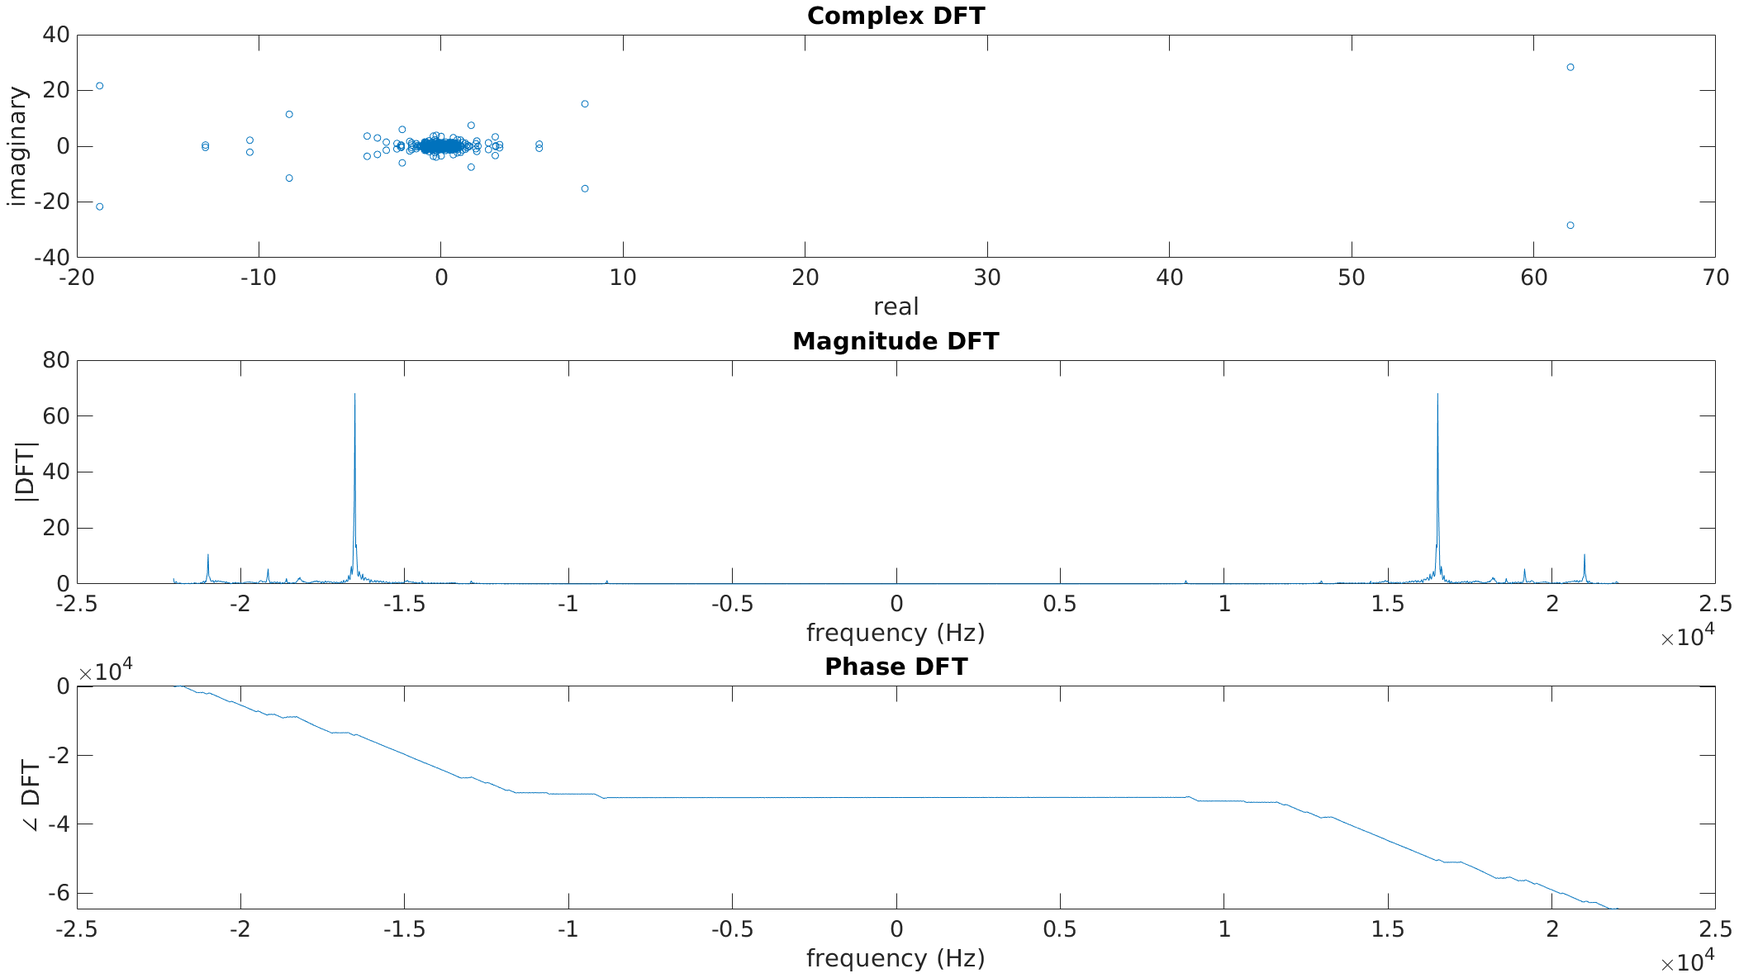
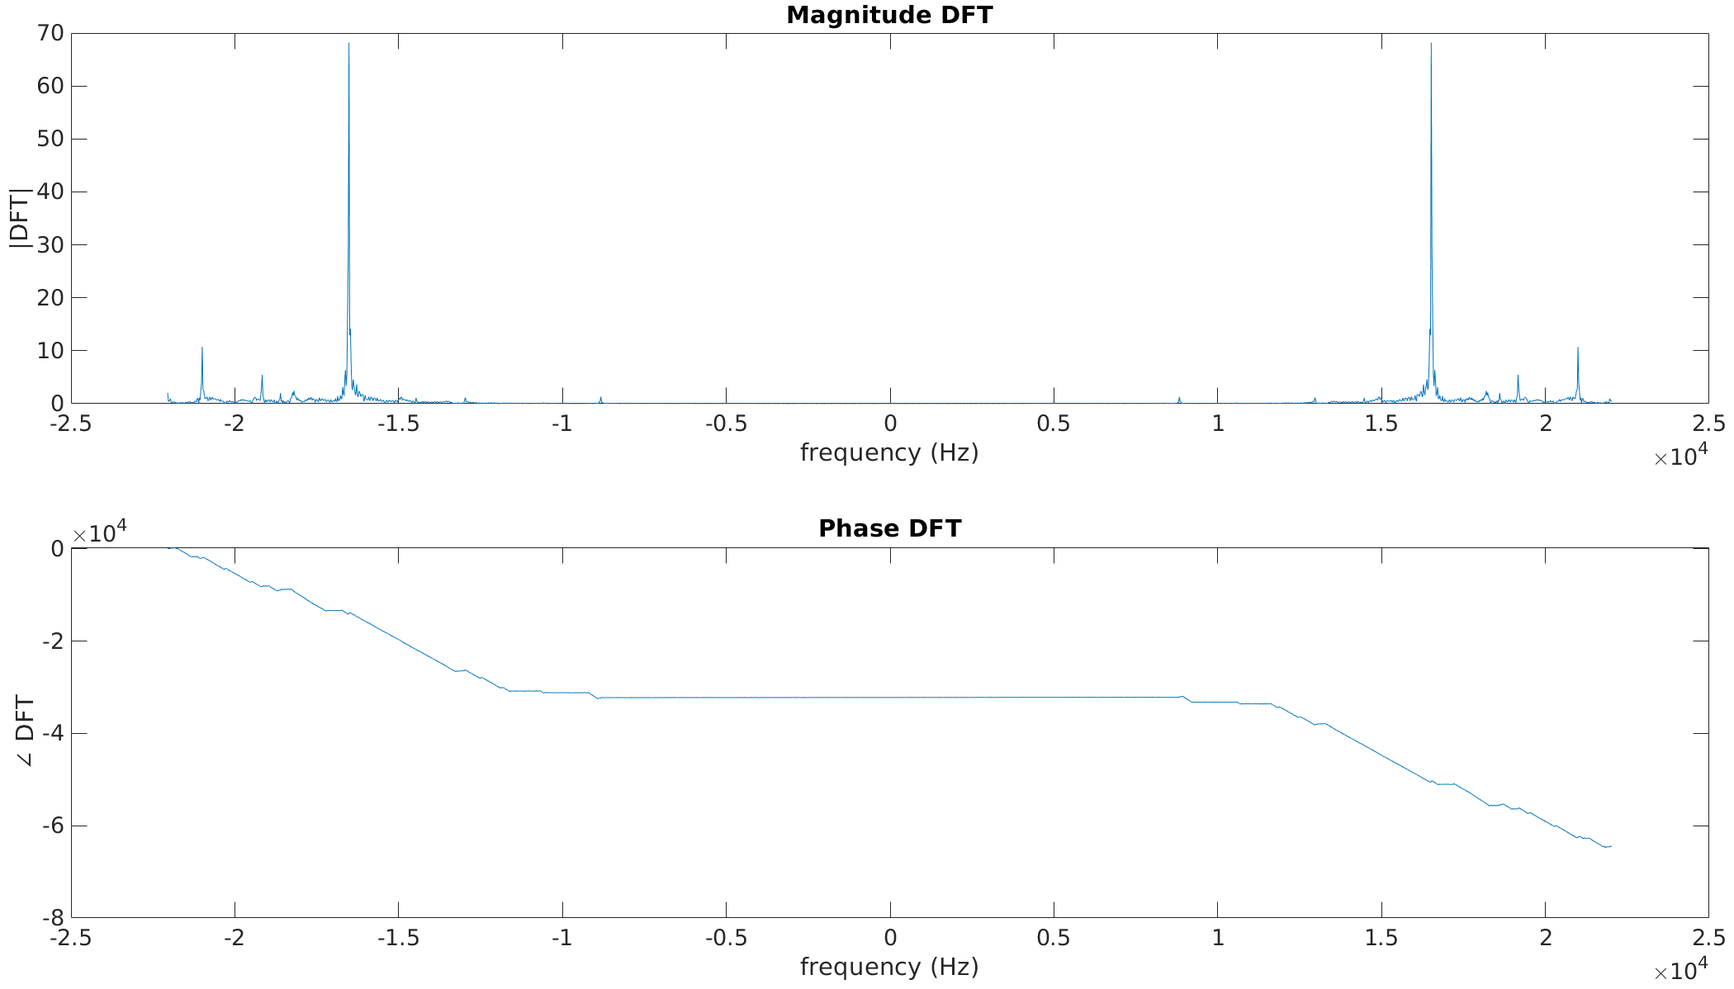
STFT section feeling good

diff --git a/latex/ch2_background.tex b/latex/ch2_background.tex
@@ -77,6 +77,8 @@ Throughout this section, the description of the Fourier transform of acoustic si
 	\label{fig:glockwaveform}
 \end{figure}
 
+The signal contains 262144 samples, and is sampled with a rate of 44100 Hz, meaning the total duration is $\sfrac{262144}{44100} \approx$ 5.94 seconds.
+
 \newpagefill
 
 \subsubsection{Frequency analysis and the Fourier transform}
@@ -119,13 +121,13 @@ In \textcite[Chapter~9]{discretebook} it is described that in its original formu
 	\label{fig:bigo}
 \end{figure}
 
-The number of points, or samples, of the DFT, determines the frequency resolution, also called $\mathit{df}$ or $\mathit{\Delta f}$, which is the frequency spacing between each point in the resulting spectrum (\cite{discretebook}). The frequency resolution of an $N$-point DFT is $\mathit{df} = \sfrac{F_{s}}{N}$, where $F_{s}$ is the sampling rate of the input signal. A longer DFT therefore has a finer frequency resolution, but it requires a longer input signal -- this is the heart of the conflict between time and frequency, which will be covered in section \ref{sec:jointtfa}. An illustration of the complex DFT spectrum along with its magnitude and phase spectra are shown in figure \ref{fig:glockdft}, using two different lengths of DFT to show the difference in the low and high frequency resolutions.
+The number of points, or samples, of the DFT, determines the frequency resolution, also called $\mathit{df}$ or $\mathit{\Delta f}$, which is the frequency spacing between each point in the resulting spectrum (\cite{discretebook}). The frequency resolution of an $N$-point DFT is $\mathit{df} = \sfrac{F_{s}}{N}$, where $F_{s}$ is the sampling rate of the input signal. An illustration of the magnitude and phase spectra of the DFT are shown in figure \ref{fig:glockdft}, using two different lengths of DFT to show the difference in the low and high frequency resolutions.
 
 \begin{figure}[ht]
 	\centering
 	\subfloat[2048-point DFT, $\mathit{df} = 21.533 Hz$]{\includegraphics[width=\textwidth]{./images-gspi/gspi_dft.png}}\\
 	\subfloat[262144-point DFT, $\mathit{df} = 0.168 Hz$]{\includegraphics[width=\textwidth]{./images-gspi/gspi_dft_bigger.png}}
-	\caption{DFT of the Glockenspiel waveform, computed with the FFT}
+	\caption{DFT of the Glockenspiel waveform. Note the richer frequency information in the higher frequency resolution transform in (b)}
 	\label{fig:glockdft}
 \end{figure}
 
@@ -134,55 +136,119 @@ The number of points, or samples, of the DFT, determines the frequency resolutio
 \subsubsection{Joint time-frequency analysis -- the Gabor transform and the Short-time Fourier Transform (STFT)}
 \label{sec:jointtfa}
 
-\chaptertodo{
-describe the unit impulse as an infinite time pulse contrast with Fourier which is an infinite frequency\\
-3 souls of the STFT: \url{https://www.researchgate.net/publication/307653687_Arbitrary_Phase_Vocoders_by_means_of_Warping}\\
-}
+Continuing from the discussion of the DFT in the previous section \ref{sec:freqanal}, \textcite[Chapter~10]{discretebook} state that ``often, in practical applications of sinusoidal signal models, the signal properties (amplitudes, frequencies, and phases) will change with time. For example, nonstationary signal models of this type are required to describe radar, sonar, speech, and data communication signals. A single DFT estimate is not sufficient to describe such signals...''
 
-\textcite{gabor1946}'s seminal signal processing paper, \textit{The Theory of Communication}, introduced significant and far-reaching concepts in the time and frequency analysis of acoustic signals. Gabor starts from the Fourier transform, which as described in section \ref{sec:freqanal} is a tool that can express a time-domain signal as a sum of infinite complex sinusoids containing the frequency components present in the signal.
-
-In his paper, Gabor quotes famed American telecommunication engineer John Carson to describe the limitations of the Fourier transform:
+\textcite{gabor1946}'s seminal signal processing paper, \textit{The Theory of Communication}, introduced significant and far-reaching concepts in the time and frequency analysis of acoustic signals. Gabor quotes famed American telecommunication engineer John Carson (\cite{carsonfamous}) to describe the limitations of the Fourier transform:
 
 \begin{quote}
 	[t]he foregoing solutions [of the Fourier transform], though unquestionably mathematically correct, are somewhat difficult to reconcile with our physical intuitions and our physical concepts of such variable frequency mechanisms as, for instance, the siren
 \end{quote}
 
-We refer the reader to \cite{carsonfamous} for a summary of Carson's accomplishments.
+According to \textcite{korpel}, ``Gabor came to the conclusion that the difficulty lay in our mutually exclusive formulations of time analysis and frequency analysis ... he suggested a new method of analyzing signals in which time and frequency play symmetrical parts.''
 
-According to \textcite{korpel}, ``Gabor came to the conclusion that the difficulty lay in our mutually exclusive formulations of time analysis and frequency analysis ... he suggested a new method of analyzing signals in which time and frequency play symmetrical parts.'' We can begin from figure \ref{fig:gaborfirst}, showing the mutually exclusive formulations of time and frequency. Figure \ref{fig:gaborfirst}(a) shows the unit impulse, which is a theoretical 
+Let's start with a description of the time-domain unit impulse signal or sequence (\cite[Chapter~2]{melbook}) in equation \ref{equation:delta}:
+\begin{flalign}\label{equation:delta}
+\delta[n] = \begin{cases}
+	1 \text{\hspace{1em}} n = 0\\
+	0 \text{\hspace{1em}} \text{otherwise}
+\end{cases}
+\end{flalign}
+
+The impulse is a useful signal, as it is the ``simplest [time-domain] sequence because it has only one nonzero value, which occurs at n = 0. The mathematical notation is that of the Kronecker delta function'' (\cite[Chapter~5]{dspfirst}). Note the Kronecker delta function is the discrete equivalent of the Dirac delta function (\cite[Chapter~2]{melbook}). Contrast this with the DFT of a signal that is only non-zero at the 0-frequency component, or the DC component, which is a ``cosine signal with zero frequency'' (\cite[Chapter~3]{dspfirst}).
+
+Figure \ref{fig:gaborfirst} shows the unit impulse contrasted with the DC-component DFT, and these two in fact demonstrate the mutually exclusive formulations of time and frequency. The unit impulse, which has a single non-zero value in the time domain, has an infinite extent in the frequency domain. Conversely, the DC-component DFT has a single non-zero value in the frequency domain, but has an infinite extent in the time domain.
 
 \begin{figure}[ht]
 	\centering
-	\subfloat[foo]{\includegraphics[width=6.5cm]{./images-tftheory/gabor13.png}}
-	\hspace{0.2em}
-	\subfloat[bar]{\includegraphics[width=6.2cm]{./images-tftheory/gabor1.png}}
-	\caption{tf intuition}
-	\label{fig:tfintuition}
+	\includegraphics[width=7cm]{./images-tftheory/gabor13.png}
+	\caption{The mutually exclusive formulations of time and frequency represented by two extremes -- unit impulse on the bottom left, non-zero DC DFT spectrum on the top right}
+	\label{fig:gaborfirst}
 \end{figure}
 
-Gabor derived the principal of time-frequency uncertainty stemming from Heisenberg's uncertainty principle in quantum physics, leading to an explosion of wavelet research in the 1980s (\cite{homage1})
+Gabor derived the principal of time-frequency uncertainty from Heisenberg's uncertainty principle in quantum physics, which is that $\sigma_{x}\sigma_{p} \ge \sfrac{h}{4\pi}$ (\cite{hallm}). In words, ``the more precisely the position [of an electron] is determined, the less precisely the momentum is known, and conversely'' (\cite{heisenberg1927}).
 
-\textcite{gabor1946} performed the first joint time-frequency decomposition of a signal by applying the Fourier transform locally to overlapping portions of the signal multiplied by Gaussian windows. In other words, Gabor proposed that any signal of finite energy can be decomposed into a linear combination of time-frequency shifts of the Gaussian function. The Gabor transform $G(f)$ of a discrete-time signal $x(n)$ is described in equation (1):
+Gabor's time-frequency uncertainy principle is $\sigma_{t}\sigma_{f} \ge \sfrac{1}{4\pi}$, or $\Delta t\Delta f \ge 1$. In words, ``although we can carry out the analysis [of the acoustic signal] with any degree of accuracy in the time direction or frequency direction, we cannot carry it out simultaneously in both beyond a certain limit'' (\cite{gabor1946}). This is also referred to as the Gabor limit, and $\Delta t$ and $\Delta f$ are defined by \textcite{gabor1946} as ``the uncertainties inherent in the definition of the epoch t and frequency f of an oscillation.'' Gabor referred to the time-frequency tile $\Delta t \Delta f$ the \textit{logon}, or smallest possible unit of time-frequency information.
+
+The result of the time-frequency uncertainty principle is a property of the choice of the Fourier transform to swap between the mutually exclusive domains of time and frequency. To further elaborate that this is a consequence of the Fourier transform, several psychacoustic studies have shown that humans can exhibit better time-frequency resolution than the Gabor limit. \textcite{psycho2} describes one of these experiments:
+
+\begin{quote}
+	It is concluded that models based on a place (spectral) analysis should be subject to a limitation of the type $\Delta f \cdot d \ge \text{constant}$, where $\Delta f$ is the frequency difference limen (DL) for a tone pulse of duration d. [...]  It was found that at short durations the product of $\Delta f$ and d was about one order of magnitude smaller than the minimum predicted [...]
+\end{quote}
+
+More recently, according to \textcite{psycho1}:
+
+\begin{quote}
+	[w]e have conducted the first direct psychoacoustical test of the Fourier uncertainty principle in human hearing, by measuring simultaneous temporal and frequency discrimination. Our data indicate that human subjects often beat the bound prescribed by the uncertainty theorem, by factors in excess of 10.
+\end{quote}
+
+Note that these are not a refutation of Gabor's ideas, but in fact a confirmation. \textcite{gabor1946} himself stated that ``most sound analysis and processing tools today continue to use models based on spectral theories... [w]e believe it is time to revisit this issue.'' \textcite{psycho1} further state that:
+
+\begin{quote}
+	[i]n time-frequency analysis, it has been proven that linear operators cannot exceed the uncertainty bound... Nonlinearity does not by itself confer any acuity advantage, and in fact most nonlinearities are merely distortions and thus deleterious. However [...] any carefully crafted analysis that can beat this limit must necessarily be nonlinear.
+\end{quote}
+
+Nevertheless, if we choose to proceed with time-frequency analysis despite the limitations, it's preferable to minimize time-frequency uncertainty, or to set the \textit{logon} ($\Delta t \Delta f$) to it lowest possible value, $1$. \textcite{gabor1946} states and answers the question as follows:
+
+\begin{quote}
+What is the shape of the signal for which the product $\Delta t \Delta f$ actually assumes the smallest possible value? [... it is] the modulation product of a harmonic oscillation of any frequency with a pulse of the form of the probability function
+\end{quote}
+
+\textcite{gabor1946} discovered that this can be done by multiplying overlapping, temporally consecutive portions of the input signal with shifted copies of the Gaussian window function, and by taking the Fourier transform of the Gaussian-windowed segments of the signal. In other words, Gabor proposed that any signal of finite energy can be decomposed into a linear combination of time-frequency shifts of the Gaussian function. The Gabor transform $G(f)$ of a discrete-time signal $x(n)$ is described in equation (1):
 \begin{flalign}
 	\nonumber \mathbf{G(f)} &= [G_{1}(f), G_{2}(f), ..., G_{k}(f)]\\
 	G_{m}(f) &= \sum_{n = -\infty}^{\infty}x(n)g(n-\beta m)e^{-j2\pi \alpha n},
 \end{flalign}
 
-where $g(\cdot)$ is a Gaussian low-pass window function localized at 0, $G_{m}(f)$ is the DFT of the signal centered around time $\beta m$, and $\alpha$ and $\beta$ control the time and frequency resolution of the transform. With his transform, Gabor also introduced the first formulation of the time-frequency uncertainty principle (which is minimized by using the Gaussian function as a window), stating that ``although we can carry out the analysis [of the acoustic signal] with any degree of accuracy in the time direction or frequency direction, we cannot carry it out simultaneously in both beyond a certain limit.'' Gabor called named the time-frequency tile the \textit{logon}, or smallest possible unit of time-frequency information. Mathematically, this can be stated as:
-\[ \Delta t\Delta f \ge 1 \]
+where $g(\cdot)$ is a Gaussian low-pass window function localized at 0, $G_{m}(f)$ is the DFT of the signal centered around time $\beta m$, and $\alpha$ and $\beta$ control the time and frequency resolution of the transform.
 
-$\Delta t$ and $\Delta f$ are, as defined by Gabor, ``the uncertainties inherent in the definition of the epoch $t$ and frequency $f$ of an oscillation.'' The TF uncertainty principle arises from the fact that time and frequency are, in quantum physics terms, conjugate variables, or Fourier transforms of each other. This is further illustrated in figure \ref{fig:gabortf}, which shows the tiling of the time-frequency plane, and how frequency and time resolution must be sacrificed for one another by the lower bound of the time-frequency tile area.
+The mathematical details, derivations, and proofs of these equations are beyond the scope of this thesis. However, an interesting connection between \textcite{gabor1946}'s equations and \textcite{shannon1948}'s sampling theorem can be shown with a precursory overview of the equations. Gabor's original paper describes the Gaussian functions by the following set of equations:
+
+\begin{flalign}
+	\psi(t) &= \text{e}^{-\alpha^{2}(t-t_{0})}\text{cis}(2\pi f_{0}t + \phi)\\
+	\phi(f) &= \text{e}^{-\frac{\pi}{\alpha}^{2}(f-f_{0})^{2}}\text{cis}[-2\pi(f - f_{0}) + \phi)]\\
+	\Delta t &= \sqrt{\frac{\pi}{2}}\frac{1}{\alpha}, \Delta f = \frac{1}{\sqrt{2\pi}}\alpha
+\end{flalign}
+
+The parameter $\alpha$ of the Gaussian function determines both $\Delta t$ and $\Delta f$. Figure \ref{fig:gauswidth} shows the effect of the width of the Gaussian function on the time-frequency resolution, and figure \ref{fig:gabortf} shows different sizes of \textit{logon} in the time-frequency plane.
 
 \begin{figure}[ht]
 	\centering
-	\subfloat{\includegraphics[height=3cm]{./images-tftheory/gabor3.png}}
-	\hspace{0.1em}
-	\subfloat{\includegraphics[height=2.56cm]{./images-tftheory/gabor4.png}}
-	\caption{A demonstration of the mutually exclusive formulations of time analysis and frequency analysis, and the lower bound of time-frequency resolution defined by Gabor's TF uncertainty principle (\cite{gabordiagrams})}
+	\includegraphics[width=5cm]{./images-tftheory/gabor14.png}
+	\caption{The width of the Gaussian function, controlled by $\alpha$, and its effect on $\Delta t$ and $\Delta f$}
+	\label{fig:gauswidth}
+\end{figure}
+
+\begin{figure}[ht]
+	\centering
+	\subfloat[Mutually exclusive time and frequency, and the lower bound of time-frequency resolution defined by Gabor's limit]{\includegraphics[height=3.4cm]{./images-tftheory/gabor3.png}}\\
+	\subfloat[High frequency/low time, and low frequency/high time resolution logons]{\includegraphics[height=3.2cm]{./images-tftheory/gabor4.png}}
+	\caption{Different time-frequency resolutions (\cite{gabordiagrams})}
 	\label{fig:gabortf}
 \end{figure}
 
-Gabor noted the need for variable-frequency analysis, stating that ``the foregoing solutions [of the Fourier transform], though unquestionably mathematically correct, are somewhat difficult to reconcile with our physical intuitions and our physical concepts of such variable frequency mechanisms as, for instance, the siren.'' Similarly, psychoacoustics research shows that humans have been able to beat the time-frequency uncertainty principle (\cite{psycho1, psycho2}), indicating the presence of nonlinear operators in the auditory system.
+\newpagefill
+
+Alternate forms of the Gabor equations are derived by \textcite{gabor2}:
+\begin{flalign}
+	C_{\mathit{jk}}(t) &= e^{\frac{-\pi (t - j\Delta t)^{2}}{\alpha^{2}}} \cos{[2\pi k \Delta f(t-j\Delta t)]}\\
+	S_{\mathit{jk}}(t) &= e^{\frac{-\pi (t - j\Delta t)^{2}}{\alpha^{2}}} \sin{[2\pi k \Delta f(t-j\Delta t)]}\\
+	\phi_{\mathit{jk}} &= C_{\mathit{jk}} + jS_{\mathit{jk}}
+\end{flalign}
+
+As $\alpha \rightarrow \infty$, this reduces to the Fourier transform:
+\begin{flalign}
+	C_{\mathit{jk}}(t) &= \cos{[2\pi j k \Delta f(t - j \Delta t)]}\\
+	S_{\mathit{jk}}(t) &= \sin{[2\pi j k \Delta f(t - j \Delta t)]}\\
+	\phi_{\mathit{jk}}(t) &= e^{[2\pi j k \Delta f(t - j \Delta t)]}
+\end{flalign}
+
+As $\alpha \rightarrow 0$, this reduces to Dirac delta functions spaced at $\Delta t$, or unit impulse function as shown previously in \ref{equation:delta}:
+\begin{flalign}\label{equation:twodelta}
+	C_{\mathit{jk}}(t) &= S_{\mathit{jk}}(t) = \delta (t - j\Delta t) \\
+	\phi_{\mathit{jk}}(t) &= \delta (t - j \Delta t) + j \delta (t - j \Delta t) = a_{\mathit{ij}} + j b_{\mathit{ij}} 
+\end{flalign}
+
+We now explore the connection to Shannon's sampling theorem (\cite{shannon1948}). Shannon states that ``to reconstruct $\psi$ we must take equally spaced samples at a minimum of the Nyquist frequency, which is twice the maximal frequency.'' In equation \ref{equation:twodelta}, the $\alpha = 0$ limit of the Gabor equations represents two samples, $a_{\mathit{ij}}$ and $b_{\mathit{ij}}$, for each $\Delta t$ interval.
 
 The STFT, or short-time Fourier transform, has been described independently from Gabor's work (\cite{stftindie}), but additional research in the 1980s (\cite{dictionary}) led to the STFT being formalized and described as a special case of the Gabor transform, in recognition of Gabor's pioneering work. The STFT $X(f)$ of a discrete-time signal $x(n)$ is described in equation (2):
 \begin{flalign}
@@ -191,6 +257,37 @@ The STFT, or short-time Fourier transform, has been described independently from
 \end{flalign}
 
 where $g(\cdot)$ are the time-shifted, localized windows, $X_{m}(f)$ is the DFT of the audio signal centered about time $mR$, and $R$ is the hop size between successive time-shifts of the window. Note how similar equations (1) and (2) are, which is expected since the original Gabor transform is the STFT with a Gaussian window. Practically, the STFT allows the use of different windows and overlap sizes (\cite{stftinvertible}), as long as overlap-add conditions are respected.\footnote{\url{https://www.mathworks.com/help/signal/ref/iscola.html}}
+
+\textcite{doerflersouls} describe the powerful properties of the STFT and why its such an important tool in the analysis of acoustic signals:
+
+\begin{quote}
+	... the STFT has at least three souls: it is the Fourier transform of windowed portions of the signal, it is the convolution of the signal with modulated versions of the window and it is the scalar product of the signal with time-shifted modulated versions of the window. These three souls can be exploited in the applications, for the computation of the STFT and for its sampling ...
+\end{quote}
+
+Figure \ref{fig:stfts} shows the Gabor transform alongside the STFT using a popular choice of window, the Hamming window, for three different window sizes: 128 samples, 2048 samples, and 16384 samples, which at the sample rate of the glockenspiel signal (44100 Hz) represent $\sfrac{128}{44100}\cdot 1000 = $ 2.9 ms, 46.44 ms, and 371.52 ms respectively. The Hamming window was chosen because it is the default window in the MATLAB \Verb#spectrogram# function.\footnote{\url{https://www.mathworks.com/help/signal/ref/spectrogram.html}}
+
+The Hamming window is advantageous over the Gaussian window because it is exactly zero outside of its specified range. The Gaussian window asymptotially approaches zero but never reaches it. \textcite{gabor2} describes that the Gabor functions are not strictly local, because from their infinite Gaussian envelope, they stretch out to infinity. This is biologically problematic, but the Gaussian envelope is well-localized (99.7\% of its area is within 3 standard deviations of the mean), so that the Gabor transform with Gaussian windows is in practice a ``good enough approximation'' of biology. The Gaussian and Hamming windows are contrasted in figure \ref{fig:windows}.
+
+\begin{figure}[ht]
+	\centering
+	\includegraphics[width=10cm]{./images-tftheory/gaussianvshann.png}
+	\caption{The Gaussian and Hamming windows}
+	\label{fig:windows}
+\end{figure}
+
+\begin{figure}[ht]
+	\centering
+	\subfloat[STFT, 128-sample Hamming window]{\includegraphics[width=0.5\textwidth]{./images-gspi/gspi_hamm_128.png}}
+	\subfloat[Gabor transform, 128-sample Gaussian window]{\includegraphics[width=0.5\textwidth]{./images-gspi/gspi_gauss_128.png}}\\
+	\subfloat[STFT, 2048-sample Hamming window]{\includegraphics[width=0.5\textwidth]{./images-gspi/gspi_hamm_2048.png}}
+	\subfloat[Gabor transform, 2048-sample Gaussian window]{\includegraphics[width=0.5\textwidth]{./images-gspi/gspi_gauss_2048.png}}\\
+	\subfloat[STFT, 16384-sample Hamming window]{\includegraphics[width=0.5\textwidth]{./images-gspi/gspi_hamm_16384.png}}
+	\subfloat[Gabor transform, 16384-sample Gaussian window]{\includegraphics[width=0.5\textwidth]{./images-gspi/gspi_gauss_16384.png}}
+	\caption{Visual comparison of the Hamming-window STFT and the Gaussian-window STFT (i.e. the Gabor transform), using the Glockenspiel signal. Note how the time resolution decreases with the window size (blurry temporal events i.e. vertical lines), while the frequency resolution increases (sharper frequencies i.e. horizontal lines)}
+	\label{fig:stfts}
+\end{figure}
+
+\newpagefill
 
 \subsubsection{Constant-Q Transform (CQT)}
 

diff --git a/matlab/plot_things.m b/matlab/plot_things.m
@@ -17,7 +17,7 @@ xlabel('time (s)');
 ylabel('amplitude');
 title('Glockenspiel waveform');
 
-N = siglen;
+N = 2048;
 y = fft(sig, N);                               % Compute DFT of x
 m = abs(y);                               % Magnitude
 y(m<1e-6) = 0;
@@ -27,20 +27,48 @@ df=fs/N; %frequency resolution
 sampleIndex = -N/2:N/2-1; %ordered index for FFT plot
 f=sampleIndex*df; %x-axis index converted to ordered frequencies
 
-subplot(3,1,1)
-plot(y, 'o')
-title('Complex DFT')
-xlabel('real');
-ylabel('imaginary');
-
-subplot(3,1,2)
+subplot(2,1,1)
 plot(f,m)
 title('Magnitude DFT');
 xlabel('frequency (Hz)');
 ylabel('|DFT|');
 
-subplot(3,1,3)
+subplot(2,1,2)
 plot(f,p*180/pi)
 title('Phase DFT')
 xlabel('frequency (Hz)');
 ylabel('\angle DFT');
+
+smallWin = 128;
+midWin = 2048;
+bigWin = 16384;
+
+figure;
+smallGauss=gausswin(smallWin);
+spectrogram(sig,smallGauss,smallWin/2,smallWin*2,fs,"yaxis");
+title("Glockenspiel, gausswin = 128");
+
+figure;
+midGauss=gausswin(midWin);
+spectrogram(sig,midGauss,midWin/2,midWin*2,fs,"yaxis");
+title("Glockenspiel, gausswin = 2048");
+
+figure;
+bigGauss=gausswin(bigWin);
+spectrogram(sig,bigGauss,bigWin/2,bigWin*2,fs,"yaxis");
+title("Glockenspiel, gausswin = 16384");
+
+figure;
+smallHamm=hamming(smallWin);
+spectrogram(sig,smallHamm,smallWin/2,smallWin*2,fs,"yaxis");
+title("Glockenspiel, hammwin = 128");
+
+figure;
+midHamm=hamming(midWin);
+spectrogram(sig,midHamm,midWin/2,midWin*2,fs,"yaxis");
+title("Glockenspiel, hammwin = 2048");
+
+figure;
+bigHamm=hamming(bigWin);
+spectrogram(sig,bigHamm,bigWin/2,bigWin*2,fs,"yaxis");
+title("Glockenspiel, hammwin = 16384");
